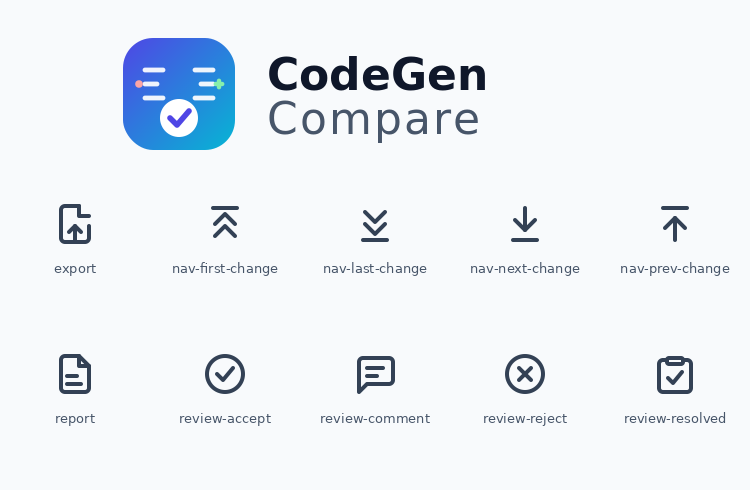
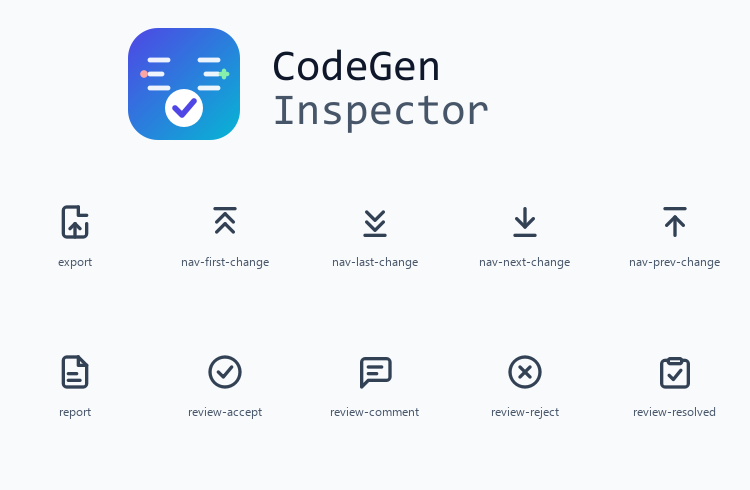
feat(branding): rename application to CodeGen Inspector

diff --git a/compare_tool/qtviewer/app.py b/compare_tool/qtviewer/app.py
@@ -21,7 +21,7 @@ from PySide6.QtWidgets import (QApplication, QCheckBox, QFileDialog,
                                QTabWidget, QToolButton, QTreeWidget, QTreeWidgetItem,
                                QVBoxLayout, QWidget)
 
-from .. import gitsource, theme, zipsource
+from .. import APP_NAME, gitsource, theme, zipsource
 from ..diff_engine import RULES
 from ..main import default_report_name
 from ..report import build_arxml_report, build_report, consistency_advisories
@@ -108,7 +108,7 @@ class MainWindow(QMainWindow):
         # file they are reading.
         self._autoselect = False
 
-        self.setWindowTitle('AUTOSAR CodeGen Compare — viewer')
+        self.setWindowTitle(APP_NAME + ' — Compare')
         self.setWindowIcon(app_icon())
         self.resize(1200, 800)
         self.setAcceptDrops(True)  # drop the two folders straight onto the window
@@ -303,10 +303,10 @@ class MainWindow(QMainWindow):
         self.statusBar().setVisible(comparing)
         self.code_check.refresh_current()
         if comparing:
-            self.setWindowTitle(getattr(self, '_compare_title', 'AUTOSAR CodeGen Compare — viewer'))
+            self.setWindowTitle(getattr(self, '_compare_title', APP_NAME + ' — Compare'))
         else:
             self._compare_title = self.windowTitle()
-            self.setWindowTitle('AUTOSAR CodeGen Compare — Code Check')
+            self.setWindowTitle(APP_NAME + ' — Code Check')
 
     # tool-state chip on the status bar: a coloured dot plus a word, so the
     # reviewer can tell at a glance whether a result is final or still coming
@@ -760,7 +760,7 @@ class MainWindow(QMainWindow):
         # window: it changed what the scan judged, so the reviewer has to see
         # which mode produced the tree they are reading
         quick = ' — QUICK CHECK: variable renames skipped' if self.skip_var_renames else ''
-        self._compare_title = 'AUTOSAR CodeGen Compare — {}{}'.format(name, quick)
+        self._compare_title = '{} — Compare — {}{}'.format(APP_NAME, name, quick)
         if self.modes.currentIndex() == 0:
             self.setWindowTitle(self._compare_title)
         self.counts_label.setText('')
@@ -1336,7 +1336,7 @@ def _taskbar_identity():
     try:
         import ctypes
         ctypes.windll.shell32.SetCurrentProcessExplicitAppUserModelID(
-            'LongVoThien.CodeGenCompareTool')
+            'LongVoThien.CodeGenInspector')
     except Exception:
         pass  # not Windows, or the call is unavailable: cosmetic either way
 
@@ -1350,7 +1350,7 @@ def run_viewer(old=None, new=None, exclude=(), arxml_only=False,
         app = QApplication(sys.argv[:1])
     theme.set_current(theme_name)
     apply_theme(app)
-    app.setApplicationName('CodeGen Compare')
+    app.setApplicationName(APP_NAME)
     app.setWindowIcon(app_icon())
     win = MainWindow(old, new, exclude, arxml_only, theme_name, user_rules,
                      skip_var_renames)

diff --git a/compare_tool/qtviewer/dialogs.py b/compare_tool/qtviewer/dialogs.py
@@ -8,7 +8,7 @@ from PySide6.QtCore import Qt
 from PySide6.QtWidgets import (QDialog, QDialogButtonBox, QLabel, QTextBrowser,
                                QVBoxLayout)
 
-from .. import __version__, theme
+from .. import APP_NAME, __version__, theme
 from ..resources import doc_file
 from .icons import app_icon, logo_pixmap
 
@@ -69,7 +69,7 @@ For CLI commands, options and configuration examples, see the
 """
 
 ABOUT_HTML = """
-<p style="font-size:13px;"><b>CodeGen Compare Tool {version}</b></p>
+<p style="font-size:13px;"><b>{app_name} {version}</b></p>
 <p>Compare generated code and check AUTOSAR RTE/ARXML consistency.</p>
 <p>Author: <b>Long Vo Thien</b> &middot; MIT License<br>
 Built with Python and PySide6</p>
@@ -107,7 +107,7 @@ class _TextDialog(QDialog):
 
 
 def show_user_guide(parent):
-    _TextDialog(parent, 'User guide — CodeGen Compare', GUIDE).exec()
+    _TextDialog(parent, 'User guide — ' + APP_NAME, GUIDE).exec()
 
 
 def show_release_notes(parent):
@@ -121,12 +121,12 @@ def show_release_notes(parent):
         text = 'Could not read {}\n\n{}: {}'.format(path, type(e).__name__, e)
         _TextDialog(parent, 'Release notes', text, markdown=False).exec()
         return
-    _TextDialog(parent, 'Release notes — CodeGen Compare', text).exec()
+    _TextDialog(parent, 'Release notes — ' + APP_NAME, text).exec()
 
 
 def show_about(parent):
     dlg = QDialog(parent)
-    dlg.setWindowTitle('About CodeGen Compare')
+    dlg.setWindowTitle('About ' + APP_NAME)
     dlg.setWindowIcon(app_icon())
     lay = QVBoxLayout(dlg)
     lay.setSpacing(12)
@@ -140,7 +140,7 @@ def show_about(parent):
     # inherit the app palette for links), so it takes the theme's accent rather
     # than a hex literal -- hard-coded, the dark theme's blue stayed on the
     # light page, which is the whole failure mode rule 3 exists to stop
-    body = QLabel(ABOUT_HTML.format(version=__version__,
+    body = QLabel(ABOUT_HTML.format(app_name=APP_NAME, version=__version__,
                                     link=theme.c('accent-2')))
     body.setWordWrap(True)
     body.setTextFormat(Qt.RichText)

diff --git a/compare_tool/main.py b/compare_tool/main.py
@@ -17,7 +17,7 @@ import tempfile
 from collections import Counter
 from pathlib import Path
 
-from . import (__version__, consistency, review, serialize, theme, userrules,
+from . import (APP_NAME, __version__, consistency, review, serialize, theme, userrules,
                zipsource)
 from .diff_engine import RULES, ruleset_for
 from .report import (build_arxml_report, build_report, consistency_advisories,
@@ -366,8 +366,8 @@ def diagnostic_lines(results, arxml_only=False, exclude=(), user_rules=(),
     lines = [
         '',
         'Diagnostics:',
-        '  Runtime: codegen-compare-tool {} | Python {} | {}'.format(
-            __version__, platform.python_version(), sys.platform),
+        '  Runtime: {} {} | Python {} | {}'.format(
+            APP_NAME, __version__, platform.python_version(), sys.platform),
         '  Sources: BASELINE {}; CURRENT {}'.format(*source_kinds),
         '  Scope: {}'.format(
             'ARXML/XML/A2L only' if arxml_only else 'all matched files'),
@@ -630,7 +630,7 @@ def main(argv=None):
     ap = _parser()
     args = ap.parse_args(argv)
     if not _wants_viewer(args):
-        print('codegen-compare-tool {}'.format(__version__))
+        print('{} {}'.format(APP_NAME, __version__))
     # boxed so _resolve_source can create the extraction dir lazily; removed in
     # the finally whichever way this run exits
     zip_temp = [None]

diff --git a/resources/gen/logo.py b/resources/gen/logo.py
@@ -1,4 +1,4 @@
-# Modern logo for "CodeGen Compare" — rounded badge, two diff columns
+# Modern logo for "CodeGen Inspector" — rounded badge, two diff columns
 # (OLD/red vs NEW/green) merging into a check. Indigo->cyan gradient.
 
 # App mark only, square, 64x64 canvas
@@ -52,5 +52,5 @@ LOGO_FULL = '''<svg xmlns="http://www.w3.org/2000/svg" width="520" height="128" 
   <circle cx="32" cy="44" r="9.5" fill="#ffffff"/>
   <polyline points="27.5 44 31 47.5 37 40.5" fill="none" stroke="#4F46E5" stroke-width="2.8" stroke-linecap="round" stroke-linejoin="round"/>
   <text x="76" y="30" font-family="Segoe UI, Arial, sans-serif" font-size="22" font-weight="700" fill="#0f172a">CodeGen</text>
-  <text x="76" y="52" font-family="Segoe UI, Arial, sans-serif" font-size="22" font-weight="400" fill="#475569" letter-spacing="1">Compare</text>
+  <text x="76" y="52" font-family="Segoe UI, Arial, sans-serif" font-size="22" font-weight="400" fill="#475569" letter-spacing="1">Inspector</text>
 </svg>'''

diff --git a/compare_tool/report.py b/compare_tool/report.py
@@ -12,7 +12,7 @@ import re
 from collections import namedtuple
 from pathlib import Path
 
-from . import consistency, filepair, funcname, review, syntax, theme
+from . import APP_NAME, consistency, filepair, funcname, review, syntax, theme
 from .diff_engine import ruleset_for
 from .scanner import (looks_binary, read_text, summarize, summarize_a2l,
                       summarize_ifaces, summarize_rte, summarize_swcs)
@@ -326,7 +326,7 @@ def _head(title, initial, body_class=''):
     return ('<!DOCTYPE html><html data-theme="{}"><head><meta charset="utf-8">'
             '<title>{}</title><style>:root{{{}}}html[data-theme="light"]{{{}}}'
             '{}</style></head><body{}>{}'
-            .format(theme.normalize(initial), title,
+            .format(theme.normalize(initial), _esc(APP_NAME + ' — ' + title),
                     theme.css_vars(theme.DARK), theme.css_vars(theme.LIGHT),
                     _CSS, cls, _THEME_BUTTON))
 

diff --git a/resources/gen/build.py b/resources/gen/build.py
@@ -2,7 +2,7 @@ import os, sys, cairosvg
 from icons import HEAD, FOOT, ICONS
 from logo import LOGO_MARK, LOGO_FULL
 
-ROOT = "/sessions/jolly-compassionate-ptolemy/mnt/code-review/resources"
+ROOT = os.path.dirname(os.path.dirname(os.path.abspath(__file__)))
 DIRS = {k: os.path.join(ROOT, *p) for k,p in {
   "svg":("icons","svg"), "p24":("icons","png","24"), "p48":("icons","png","48"),
   "logo":("logo",)}.items()}

diff --git a/compare_tool/__init__.py b/compare_tool/__init__.py
@@ -1,3 +1,5 @@
-"""CodeGen Compare Tool - AUTOSAR MATLAB codegen diff with noise filtering."""
+"""CodeGen Inspector - generated-code comparison and AUTOSAR consistency checks."""
+
+APP_NAME = 'CodeGen Inspector'
 
 __version__ = "1.19.0"

diff --git a/CHANGELOG.md b/CHANGELOG.md
@@ -11,6 +11,8 @@ All notable changes to this project are documented here. Versions follow
 
 ### Changed
 
+- Rename the application to CodeGen Inspector, including its logo, desktop titles, Help/About, CLI banners and HTML report titles. Existing package names, commands and repository links remain valid.
+
 - Label comparison-only consistency warnings as Regeneration advisories, separate from CURRENT code checks.
 - Keep Code Check findings and coverage separate, remove repeated GUI descriptions, and focus Help on mode workflows with CLI instructions linked to GitHub.
 - Put mode selection above comparison tools, remove the viewer's Review mode, and share Compare's syntax colors and source-line gutter with Code Check.

diff --git a/AGENTS.md b/AGENTS.md
@@ -1,4 +1,4 @@
-# CodeGen Compare Tool
+# CodeGen Inspector
 Compare AUTOSAR MATLAB/Simulink codegen folders while filtering proven generator noise.
 Package: compare_tool. Read docs/architecture.md for module ownership and contracts.
 

diff --git a/docs/vi/README.md b/docs/vi/README.md
@@ -1,6 +1,6 @@
 <div align="center">
 
-# CodeGen Compare Tool
+# CodeGen Inspector
 
 **So sánh baseline codegen AUTOSAR và review thay đổi offline.**
 

diff --git a/README.md b/README.md
@@ -1,6 +1,6 @@
 <div align="center">
 
-# CodeGen Compare Tool
+# CodeGen Inspector
 
 **Compare AUTOSAR codegen baselines and review changes offline.**
 
